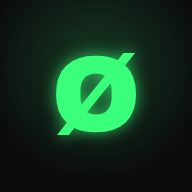
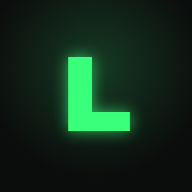
Omdøb appen fra LØFT til LIFT
Claude-Session: https://claude.ai/code/session_015q19rFv1GxLPn6c3nrSwbD

Changed region(s): [[0.25, 0.25, 0.75, 0.7188]]

diff --git a/index.html b/index.html
@@ -4,14 +4,14 @@
 <meta charset="utf-8">
 <meta name="viewport" content="width=device-width, initial-scale=1, maximum-scale=1, viewport-fit=cover">
 <meta name="theme-color" content="#0b0d0c">
-<meta name="description" content="LØFT – styrketræning for begyndere. 4-ugers programmer, pausetimer og automatisk vægtlog.">
+<meta name="description" content="LIFT – styrketræning for begyndere. 4-ugers programmer, pausetimer og automatisk vægtlog.">
 <link rel="manifest" href="manifest.webmanifest">
 <link rel="icon" href="icons/icon-192.png">
 <link rel="apple-touch-icon" href="icons/apple-touch-icon.png">
 <meta name="apple-mobile-web-app-capable" content="yes">
 <meta name="mobile-web-app-capable" content="yes">
 <meta name="apple-mobile-web-app-status-bar-style" content="black-translucent">
-<meta name="apple-mobile-web-app-title" content="LØFT">
+<meta name="apple-mobile-web-app-title" content="LIFT">
 <script>
 (function(){ // På computer: vis appen i en telefon-ramme
   var standalone = matchMedia('(display-mode: standalone)').matches || navigator.standalone;
@@ -20,7 +20,7 @@
   if(desktop && !standalone && !framed && location.protocol.indexOf('http')===0 && !/[?&]app/.test(location.search)) location.replace('desktop.html');
 })();
 </script>
-<title>LØFT – styrketræning for begyndere</title>
+<title>LIFT – styrketræning for begyndere</title>
 <link rel="preconnect" href="https://fonts.googleapis.com">
 <link href="https://fonts.googleapis.com/css2?family=Archivo+Black&family=Inter:wght@400;600;800&display=swap" rel="stylesheet">
 <style>
@@ -185,7 +185,7 @@ const PROGRAMS = [
 const WEEKS = 4, PER_WEEK = 3, TOTAL = WEEKS*PER_WEEK;
 
 /* ============================== STATE & STORAGE ============================== */
-const LS_KEY = 'loft_v1';
+const LS_KEY = 'lift_v1';
 const blank = () => ({profile:{premium:null, activeProgram:'hjem', progress:{}, equipment:Object.keys(EQ), goal:'generel', sound:true, onboarded:false}, logs:[], current:null});
 let S = blank();
 let auth = {mode:'loading', name:'', uid:null};   // mode: loading | cloud | local
@@ -371,7 +371,7 @@ function render(){
   nav.innerHTML = [['home','Hjem'],['programs','Programmer'],['progress','Fremgang'],['profile','Profil']]
     .map(([k,l]) => `<button class="${view===k?'on':''}" onclick="go('${k}')">${ICONS[k]}${l}</button>`).join('');
   const app = $('#app');
-  if(auth.mode === 'loading' && !S.profile.onboarded){ app.innerHTML = `<div class="wrap" style="text-align:center;padding-top:30vh"><div class="logo">L<span>Ø</span>FT</div><p class="mut">Logger ind…</p></div>`; return }
+  if(auth.mode === 'loading' && !S.profile.onboarded){ app.innerHTML = `<div class="wrap" style="text-align:center;padding-top:30vh"><div class="logo">L<span>I</span>FT</div><p class="mut">Logger ind…</p></div>`; return }
   if(!S.profile.onboarded) return renderOnboarding(app);
   ({home:renderHome, programs:renderPrograms, progress:renderProgress, profile:renderProfile, workout:renderWorkout})[view](app);
   renderRestBar();
@@ -389,10 +389,10 @@ let ob = {step:0, loc:'Hjemme'};
 function renderOnboarding(app){
   const login = auth.mode === 'cloud'
     ? `<div class="card row"><span class="dot ok"></span><div><b>Logget ind${auth.name ? ' som ' + esc(auth.name) : ''}</b><div class="small mut">Dine træninger gemmes på din konto og følger dig på alle enheder.</div></div></div>`
-    : !inHost ? `<div class="card row"><span class="dot ok"></span><div><b>Dine data gemmes på denne telefon</b><div class="small mut">Ingen konto nødvendig. Tip: Gem LØFT på din hjemmeskærm, så den åbner som en rigtig app.</div></div></div>`
+    : !inHost ? `<div class="card row"><span class="dot ok"></span><div><b>Dine data gemmes på denne telefon</b><div class="small mut">Ingen konto nødvendig. Tip: Gem LIFT på din hjemmeskærm, så den åbner som en rigtig app.</div></div></div>`
     : `<div class="card row"><span class="dot warn"></span><div><b>Ikke logget ind</b><div class="small mut">Log ind på claude.ai og åbn appen igen for at gemme i skyen. Indtil da gemmes data kun på denne enhed.</div></div></div>`;
   app.innerHTML = `<div class="wrap" style="padding-top:40px">
-    <div class="logo" style="font-size:54px">L<span>Ø</span>FT</div>
+    <div class="logo" style="font-size:54px">L<span>I</span>FT</div>
     <h2 style="margin-top:6px">Styrketræning for begyndere</h2>
     <p class="mut">Færdige 4-ugers programmer, 3 dage om ugen. Appen husker dine vægte og fortæller dig, hvornår du skal løfte tungere.</p>
     ${login}
@@ -416,7 +416,7 @@ function renderHome(app){
   const streak = weekStreak();
   const last = S.logs[S.logs.length-1];
   app.innerHTML = `<div class="wrap">
-    <div class="top"><div class="logo">L<span>Ø</span>FT</div>${acctChip()}</div>
+    <div class="top"><div class="logo">L<span>I</span>FT</div>${acctChip()}</div>
     ${S.current ? `<div class="card" style="border-color:var(--neon)"><h3>Træning i gang</h3><p class="mut small">${esc(prog(S.current.p).name)} · ${esc(prog(S.current.p).days[S.current.idx%3].n)}</p><button class="btn pri block" onclick="go('workout')">Fortsæt træning</button></div>` : ''}
     <div class="card">
       <div class="row between"><span class="pill">${esc(p.loc)}</span><span class="small mut">Uge ${Math.min(week,WEEKS)} af ${WEEKS}</span></div>
@@ -435,7 +435,7 @@ function renderHome(app){
       <div class="stat"><span class="small mut">Træninger i alt</span><b>${S.logs.length}</b></div>
       <div class="stat"><span class="small mut">Sidste træning</span><b style="font-size:18px">${last ? dk(last.d) : '–'}</b></div>
     </div>
-    ${!isPremium() ? `<div class="card" style="background:linear-gradient(135deg,#132219,#171c19)"><h3>Prøv <span class="neon">LØFT Premium</span></h3><p class="small mut">Alle programmer, tilpasning til dit udstyr og mål, statistik og eksport.</p><button class="btn block" onclick="openPaywall()">Se Premium – fra 29 kr./md.</button></div>` : ''}
+    ${!isPremium() ? `<div class="card" style="background:linear-gradient(135deg,#132219,#171c19)"><h3>Prøv <span class="neon">LIFT Premium</span></h3><p class="small mut">Alle programmer, tilpasning til dit udstyr og mål, statistik og eksport.</p><button class="btn block" onclick="openPaywall()">Se Premium – fra 29 kr./md.</button></div>` : ''}
   </div>`;
 }
 function weekStreak(){
@@ -664,7 +664,7 @@ function exportData(kind){
     S.logs.forEach(l=>l.ex.forEach(e=>e.sets.forEach((s,i)=>rows.push([l.d.slice(0,10), prog(l.p)?.name||l.p, (l.idx%3)+1, EX[e.id].n, i+1, s.w, s.r]))));
     txt = rows.map(r=>r.map(c=>/[;,"\n]/.test(String(c)) ? '"'+String(c).replace(/"/g,'""')+'"' : c).join(';')).join('\n') }
   else txt = JSON.stringify({profile:S.profile, logs:S.logs}, null, 1);
-  const fname = 'loft-' + new Date().toISOString().slice(0,10) + '.' + kind;
+  const fname = 'lift-' + new Date().toISOString().slice(0,10) + '.' + kind;
   modal(`<div class="row between"><h2 style="margin:0">Eksport (${kind.toUpperCase()})</h2><button class="btn sm ghost" onclick="closeModal()">Luk</button></div>
     <p class="small mut">Gem som fil eller kopiér og indsæt i fx Excel/Google Sheets.</p>
     <textarea id="exp" readonly>${esc(txt)}</textarea>
@@ -713,7 +713,7 @@ function renderProfile(app){
         : auth.mode==='loading' ? `<p class="mut">Logger ind…</p>`
         : !inHost ? `<div class="row"><span class="dot ok"></span><div><b>Gemt på denne enhed</b><div class="small mut">Dine træninger gemmes automatisk i appen på denne telefon. Brug Premium-eksport (JSON) som backup.</div></div></div>
           ${isStandalone() ? '' : `<button class="btn block" style="margin-top:12px" onclick="showInstall(true)">📲 Gem på hjemmeskærm</button>`}`
-        : `<div class="row"><span class="dot warn"></span><div><b>Ikke logget ind</b><div class="small mut">Dine data gemmes kun i denne browser. Log ind på <b>claude.ai</b> og åbn LØFT derfra, så gemmes alt på din konto. Dine lokale træninger flyttes automatisk med ved første login.</div></div></div>`}
+        : `<div class="row"><span class="dot warn"></span><div><b>Ikke logget ind</b><div class="small mut">Dine data gemmes kun i denne browser. Log ind på <b>claude.ai</b> og åbn LIFT derfra, så gemmes alt på din konto. Dine lokale træninger flyttes automatisk med ved første login.</div></div></div>`}
     </div>
     <div class="card">
       <div class="row between"><h3 style="margin:0">Abonnement</h3>${pr ? '<span class="pill">Premium</span>' : '<span class="pill lock">Gratis</span>'}</div>
@@ -731,7 +731,7 @@ function renderProfile(app){
       <button class="btn block" style="margin-top:10px" onclick="loadDemo()">Indlæs eksempeldata</button>
       <button class="btn block" style="margin-top:10px;border-color:var(--bad);color:var(--bad)" onclick="askReset()">Slet alle mine data</button>
     </div>
-    <p class="small mut" style="text-align:center">LØFT · Animationerne er illustrationer – tal med en fagperson ved skader eller smerter.</p>
+    <p class="small mut" style="text-align:center">LIFT · Animationerne er illustrationer – tal med en fagperson ved skader eller smerter.</p>
   </div>`;
 }
 function toggleEq(k){ const e = S.profile.equipment; S.profile.equipment = e.includes(k) ? e.filter(x=>x!==k) : [...e,k]; save(); render() }
@@ -758,7 +758,7 @@ function loadDemo(){
 /* ---------- Premium / paywall ---------- */
 let plan = 'year';
 function openPaywall(reason){
-  modal(`<div class="row between"><span class="pill">LØFT Premium</span><button class="btn sm ghost" onclick="closeModal()">Luk</button></div>
+  modal(`<div class="row between"><span class="pill">LIFT Premium</span><button class="btn sm ghost" onclick="closeModal()">Luk</button></div>
     <h2 style="margin-top:12px">${reason ? esc(reason)+' kræver Premium' : 'Få mere ud af din træning'}</h2>
     <ul class="feat"><li>Alle ${PROGRAMS.length} programmer – hjemme og i fitnesscenter</li><li>Tilpasning til dit udstyr og dit mål</li><li>Statistik: volumen, rekorder og est. 1RM</li><li>Eksport af alle data (CSV/JSON)</li></ul>
     <div class="plan ${plan==='year'?'on':''}" onclick="plan='year';openPaywall(${reason?`'${esc(reason)}'`:''})"><span class="tag">Spar 40 %</span><div class="row between"><div><b>Årligt</b><div class="small mut">Svarer til 29 kr./md.</div></div><div class="price">349 kr.<span class="small mut">/år</span></div></div></div>
@@ -777,20 +777,20 @@ let deferredPrompt = null;
 const isStandalone = () => matchMedia('(display-mode: standalone)').matches || navigator.standalone === true;
 const isIOS = () => /iphone|ipad|ipod/i.test(navigator.userAgent) || (navigator.platform==='MacIntel' && navigator.maxTouchPoints>1);
 window.addEventListener('beforeinstallprompt', e => { e.preventDefault(); deferredPrompt = e; showInstall() });
-window.addEventListener('appinstalled', () => { $('#installBox')?.remove(); toast('LØFT er gemt på hjemmeskærmen 🎉') });
+window.addEventListener('appinstalled', () => { $('#installBox')?.remove(); toast('LIFT er gemt på hjemmeskærmen 🎉') });
 function showInstall(force){
   if(isStandalone() || inHost || window.top !== window.self) return;
-  try{ if(!force && localStorage.getItem('loft_noinstall')) return }catch(e){}
+  try{ if(!force && localStorage.getItem('lift_noinstall')) return }catch(e){}
   $('#installBox')?.remove();
   const d = document.createElement('div'); d.id = 'installBox'; d.className = 'install';
   const ios = isIOS();
-  d.innerHTML = `<div class="row between"><b>📲 Gem LØFT på hjemmeskærmen</b><button class="btn sm ghost" style="min-height:36px" onclick="dismissInstall()">✕</button></div>
-    ${deferredPrompt ? `<p class="small mut" style="margin:6px 0 10px">Åbn LØFT som en app – fuld skærm og hurtig adgang.</p><button class="btn pri block" onclick="doInstall()">Installér app</button>`
+  d.innerHTML = `<div class="row between"><b>📲 Gem LIFT på hjemmeskærmen</b><button class="btn sm ghost" style="min-height:36px" onclick="dismissInstall()">✕</button></div>
+    ${deferredPrompt ? `<p class="small mut" style="margin:6px 0 10px">Åbn LIFT som en app – fuld skærm og hurtig adgang.</p><button class="btn pri block" onclick="doInstall()">Installér app</button>`
       : ios ? `<p class="small" style="margin:8px 0 0">1. Tryk på <b>Del</b>-ikonet <span class="neon">⬆</span> i Safari<br>2. Vælg <b>Føj til hjemmeskærm</b><br>3. Tryk <b>Tilføj</b></p>`
       : `<p class="small" style="margin:8px 0 0">Åbn browserens menu <b>⋮</b> og vælg <b>Føj til startskærm</b> / <b>Installér app</b>.</p>`}`;
   document.body.appendChild(d);
 }
-function dismissInstall(){ try{ localStorage.setItem('loft_noinstall','1') }catch(e){} $('#installBox')?.remove() }
+function dismissInstall(){ try{ localStorage.setItem('lift_noinstall','1') }catch(e){} $('#installBox')?.remove() }
 async function doInstall(){ if(!deferredPrompt) return; deferredPrompt.prompt(); try{ await deferredPrompt.userChoice }catch(e){} deferredPrompt = null; $('#installBox')?.remove() }
 if('serviceWorker' in navigator && location.protocol==='https:' && !inHost) navigator.serviceWorker.register('sw.js').catch(()=>{});
 setTimeout(() => { if(S.profile.onboarded && /Mobi|Android|iPhone|iPad/i.test(navigator.userAgent)) showInstall() }, 2500);

diff --git a/desktop.html b/desktop.html
@@ -3,7 +3,7 @@
 <head>
 <meta charset="utf-8">
 <meta name="viewport" content="width=device-width, initial-scale=1">
-<title>LØFT – styrketræning for begyndere</title>
+<title>LIFT – styrketræning for begyndere</title>
 <link rel="icon" href="icons/icon-192.png">
 <link href="https://fonts.googleapis.com/css2?family=Archivo+Black&family=Inter:wght@400;600;800&display=swap" rel="stylesheet">
 <script>if(!matchMedia('(min-width: 760px)').matches) location.replace('index.html?app');</script>
@@ -28,13 +28,13 @@ li:before{content:"";position:absolute;left:2px;top:11px;width:12px;height:7px;b
 </head>
 <body>
 <div class="info">
-  <div class="logo">L<span>Ø</span>FT</div>
+  <div class="logo">L<span>I</span>FT</div>
   <h2>Styrketræning for begyndere</h2>
   <p>Færdige 4-ugers programmer, 3 dage om ugen – hjemme eller i fitnesscentret. Appen husker dine vægte og fortæller dig, hvornår du skal løfte tungere.</p>
   <ul><li>Korte øvelsesdemoer</li><li>Pausetimer med lyd og vibration</li><li>Automatisk vægtlog og forslag til progression</li><li>Grafer over din fremgang</li></ul>
-  <div class="qr"><div id="qrcode"></div><div><b>Åbn på din telefon</b><span style="color:#8c9a93;font-size:14px">Scan koden med kameraet, og gem LØFT på hjemmeskærmen.</span></div></div>
+  <div class="qr"><div id="qrcode"></div><div><b>Åbn på din telefon</b><span style="color:#8c9a93;font-size:14px">Scan koden med kameraet, og gem LIFT på hjemmeskærmen.</span></div></div>
 </div>
-<div class="phone"><iframe src="index.html?app" title="LØFT app"></iframe></div>
+<div class="phone"><iframe src="index.html?app" title="LIFT app"></iframe></div>
 <script src="https://cdnjs.cloudflare.com/ajax/libs/qrcodejs/1.0.0/qrcode.min.js"></script>
 <script>
 try{ new QRCode(document.getElementById('qrcode'), {text: new URL('./', location.href).href, width:120, height:120, colorDark:'#0b0d0c', colorLight:'#ffffff'}) }catch(e){ document.querySelector('.qr').style.display='none' }

diff --git a/sw.js b/sw.js
@@ -1,5 +1,5 @@
-// LØFT service worker – virker offline
-const CACHE = 'loft-v1';
+// LIFT service worker – virker offline
+const CACHE = 'lift-v1';
 const ASSETS = ['./', './index.html', './index.html?app', './manifest.webmanifest', './icons/icon-192.png', './icons/icon-512.png', './icons/apple-touch-icon.png'];
 self.addEventListener('install', e => { e.waitUntil(caches.open(CACHE).then(c => c.addAll(ASSETS)).then(() => self.skipWaiting())) });
 self.addEventListener('activate', e => { e.waitUntil(caches.keys().then(ks => Promise.all(ks.filter(k => k !== CACHE).map(k => caches.delete(k)))).then(() => self.clients.claim())) });

diff --git a/README.md b/README.md
@@ -1,4 +1,4 @@
-# LØFT – styrketræning for begyndere
+# LIFT – styrketræning for begyndere
 
 Mobil web-app (PWA) med færdige 4-ugers programmer, pausetimer, automatisk vægtlog og grafer over fremgang.
 
